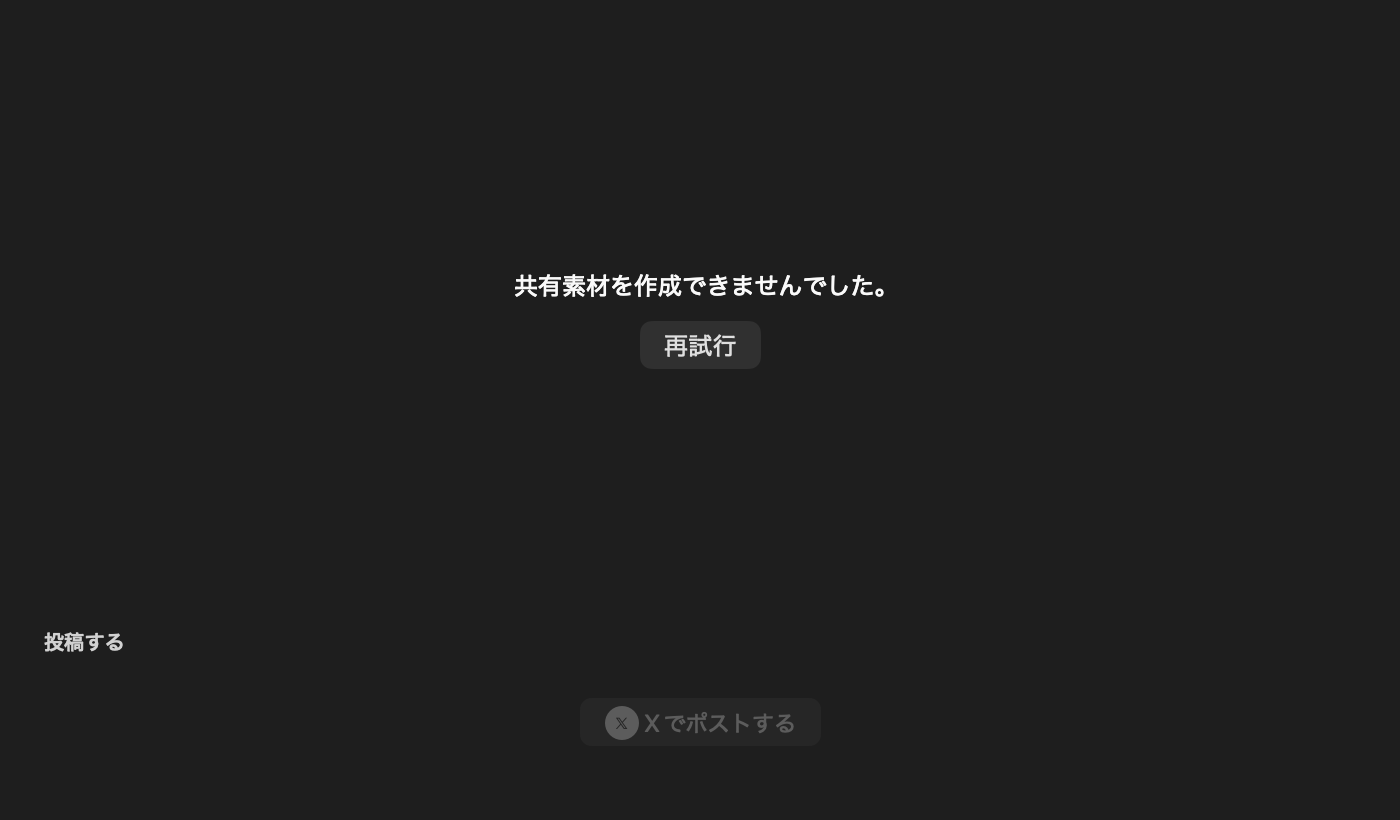
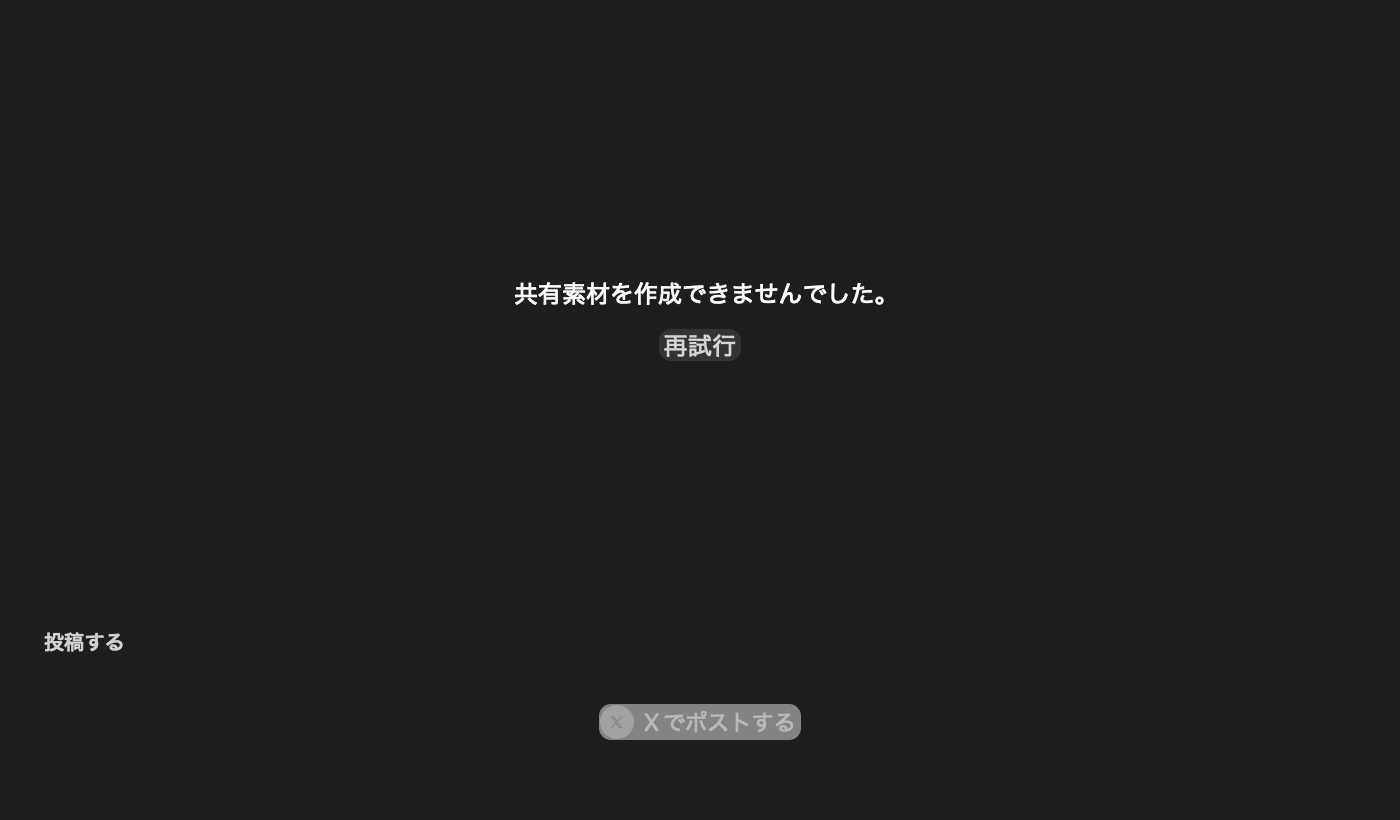
docs(share): capture post and retry hover feedback

Changed region(s): [[0.43, 0.8537, 0.5836, 0.9146], [0.3686, 0.3354, 0.645, 0.3659], [0.4914, 0.3963, 0.5221, 0.4268]]

diff --git a/docs/images/share/README.md b/docs/images/share/README.md
@@ -10,7 +10,7 @@ throwaway preference domain, so no user images or real preferences are involved.
 | File | Source revision | State |
 | --- | --- | --- |
 | `dialog-before-{en,ja}-{light,dark}.png` | `b0e69e7`, before the share redesign | ready, pre-change controls |
-| `dialog-after-{en,ja}-{light,dark}.png` | `fc0da2394387e89332f8b3a61f104a07c976079b` | ready, native copy/post buttons with hashtag-only composer |
+| `dialog-after-{en,ja}-{light,dark}.png` | `4977579ac05ce4de1d4f749d0c0526cb4c29adcd` | ready, native copy/post buttons with hashtag-only composer |
 | `state-hover-en-light.png` | same source | Post on X hovered |
 | `state-retry-hover-en-light.png` | same source | Try Again hovered in the failed state |
 | `state-working-en-light.png` | same source | generating: spinner, post disabled |

diff --git a/docs/SHARE.md b/docs/SHARE.md
@@ -73,7 +73,8 @@ WADDLY_CAPTURE_SHARE=1 ./macos/test.sh --filter ShareSnapshotTests
 ```
 
 The existing `dialog-before-*` files were rendered from `b0e69e7` with the same
-offscreen rendering approach; `dialog-after-*` and `state-*` were rendered from this change.
+offscreen rendering approach; `dialog-after-*` and `state-*` were rendered from source commit
+`4977579ac05ce4de1d4f749d0c0526cb4c29adcd`, including separate Post and Retry hover states.
 
 | Before, English | Before, Japanese |
 | --- | --- |
